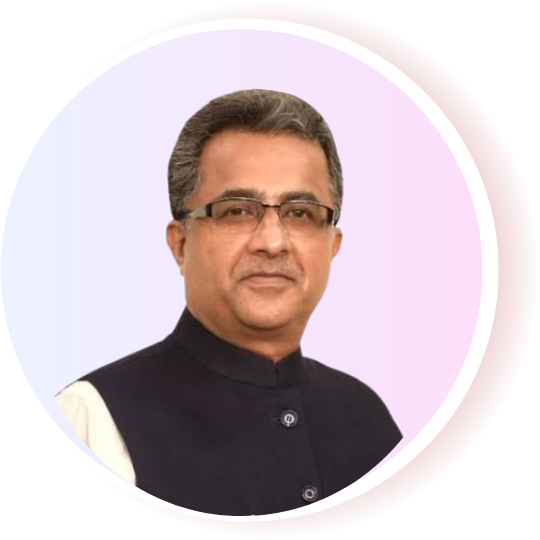
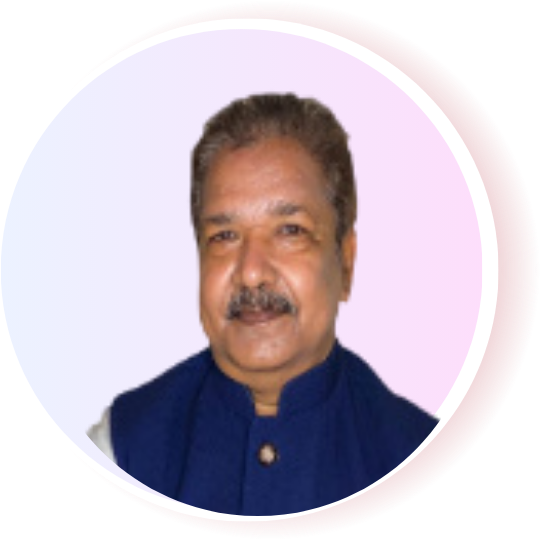
minister change

Changed region(s): [[0.0889, 0.1481, 0.8296, 0.9778]]

diff --git a/Frontend/src/components/HomePage/Home.jsx b/Frontend/src/components/HomePage/Home.jsx
@@ -156,7 +156,7 @@ const HomePage = () => {
 							className="w-24 h-auto object-cover "
 						/>
 						<h3 className="mt-2 text-sm sm:text-base md:text-lg font-semibold text-center">
-							Shri Nitish Mishra
+							Shri Dr. Dilip Kumar Jaiswal
 						</h3>
 						<p className="text-xs sm:text-sm md:text- text-gray-600 text-center">
 							Hon'ble Minister, Industry Dept, Bihar
@@ -273,13 +273,13 @@ const HomePage = () => {
 						>
 							Explore Startups
 						</a>
-						<a
+						{/*<a
 							href="https://startup.bihar.gov.in/apply-new"
 							target="blank"
 							className="text-sm font-semibold leading-6 text-gray-900"
 						>
 							Register New Startup <span aria-hidden="true">→</span>
-						</a>
+						</a>*/}
 					</motion.div>
 					{/* Notification Section 	*/}
 					<motion.div

diff --git a/Frontend/src/components/IdeaFest/Certificate.jsx b/Frontend/src/components/IdeaFest/Certificate.jsx
@@ -190,7 +190,7 @@ const Certificate = () => {
                     
                      <img
                        src={Nitishsign}
-                       alt="Nitish Mishra Signature"
+                       alt="Signature"
                        className="absolute z-10 w-[120px] right-[50px] bottom-[160px]"
                      />
                    </>